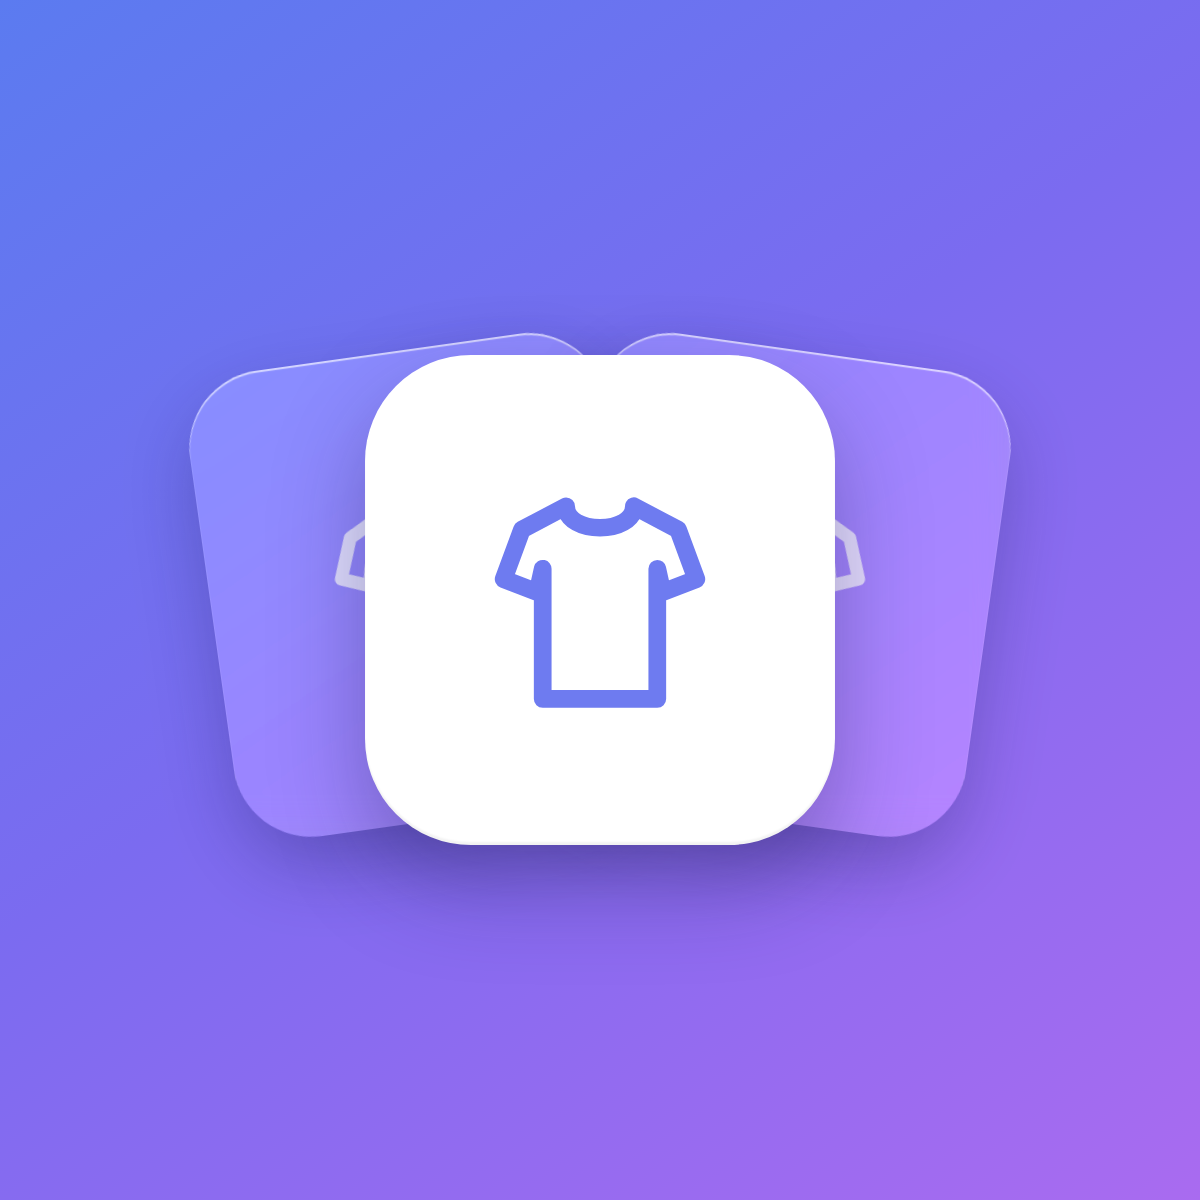
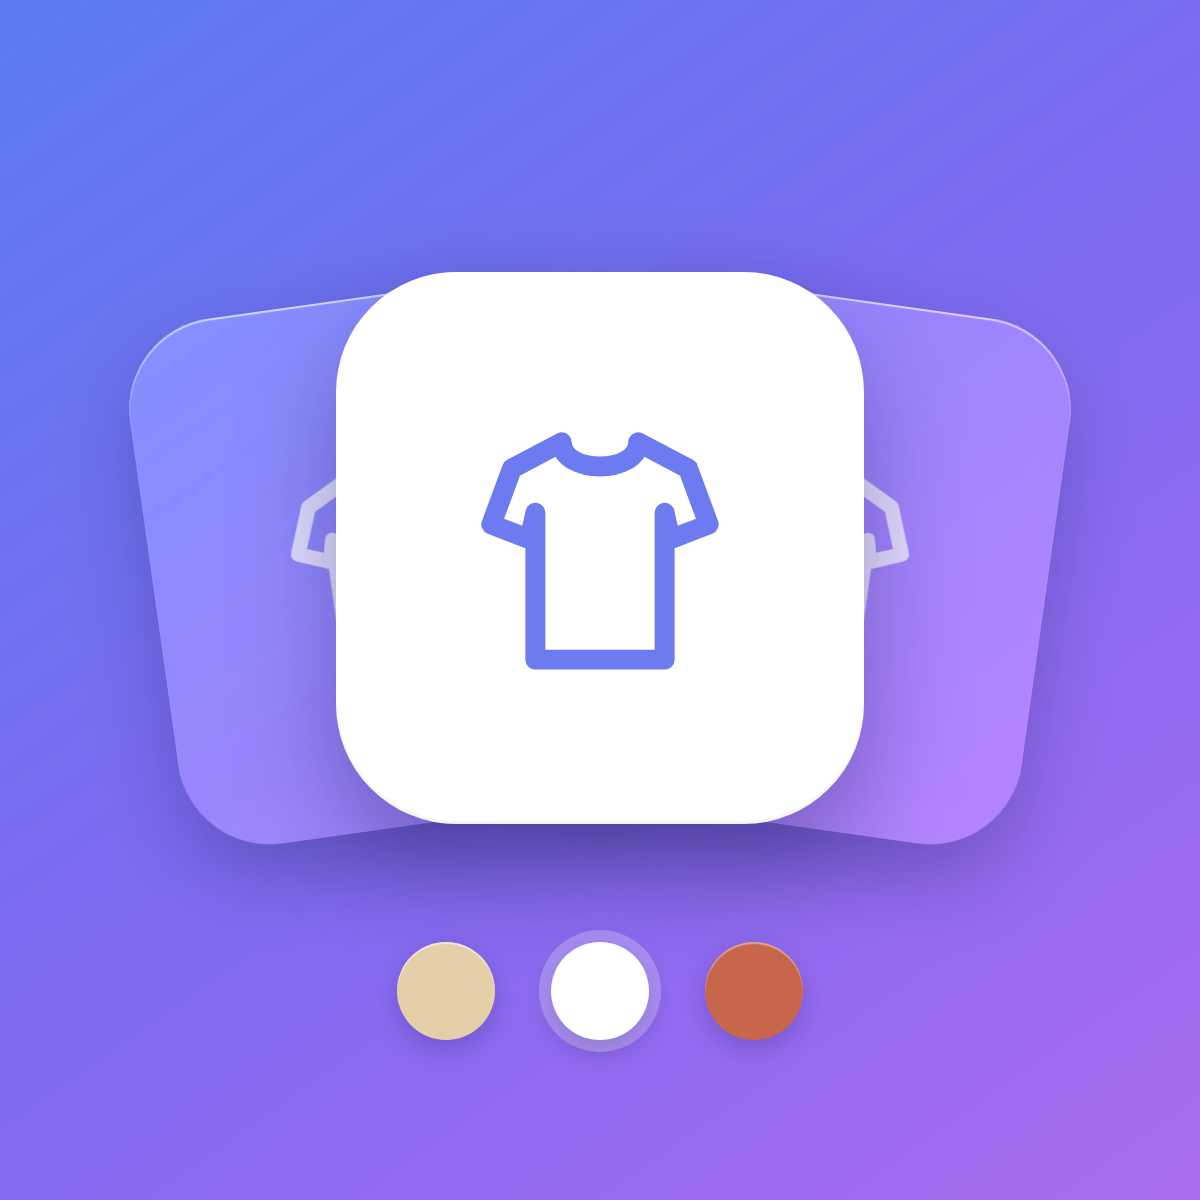
Signature retenue : agrandie, avec son nuancier
Le sujet occupe désormais la largeur utile de l'icône au lieu de flotter
au centre — une icône se regarde à 48 px, chaque pixel perdu en marge est
perdu deux fois.

Le nuancier revient, à la demande. Mon argument de redondance ne tient
plus dans cette direction : les fiches de côté sont en verre BLANC et ne
portent donc aucune couleur. Les pastilles n'y répètent rien, elles
ajoutent le coloris que la composition ne dit pas. Celle de tête est
blanche, comme la fiche choisie — l'œil relie les deux sans effort.

diff --git a/app-store/icone/directions.html b/app-store/icone/directions.html
@@ -27,20 +27,34 @@ const D = {
   signature: () => `
     <div class="icone" style="background:linear-gradient(145deg,#5B7BF0 0%,#7B6BF0 46%,#A96BF0 100%)">
       <div class="scene">
-        <div class="carte" style="left:110px;top:250px;width:420px;height:470px;border-radius:78px;
+        <div class="carte" style="left:52px;top:196px;width:472px;height:530px;border-radius:92px;
              transform:rotate(-8deg);background:rgba(255,255,255,.22);
-             backdrop-filter:blur(22px) saturate(160%);
-             box-shadow:inset 0 2px 1px rgba(255,255,255,.65), 0 30px 70px rgba(30,30,90,.30)">
-          ${TEE("rgba(255,255,255,.72)", 200)}</div>
-        <div class="carte" style="right:110px;top:250px;width:420px;height:470px;border-radius:78px;
+             backdrop-filter:blur(24px) saturate(160%);
+             box-shadow:inset 0 2px 1px rgba(255,255,255,.65), 0 34px 78px rgba(30,30,90,.30)">
+          ${TEE("rgba(255,255,255,.72)", 228)}</div>
+        <div class="carte" style="right:52px;top:196px;width:472px;height:530px;border-radius:92px;
              transform:rotate(8deg);background:rgba(255,255,255,.22);
-             backdrop-filter:blur(22px) saturate(160%);
-             box-shadow:inset 0 2px 1px rgba(255,255,255,.65), 0 30px 70px rgba(30,30,90,.30)">
-          ${TEE("rgba(255,255,255,.72)", 200)}</div>
-        <div class="carte" style="z-index:3;width:470px;height:490px;border-radius:106px;
+             backdrop-filter:blur(24px) saturate(160%);
+             box-shadow:inset 0 2px 1px rgba(255,255,255,.65), 0 34px 78px rgba(30,30,90,.30)">
+          ${TEE("rgba(255,255,255,.72)", 228)}</div>
+        <div class="carte" style="z-index:3;top:172px;width:528px;height:552px;border-radius:120px;
              background:#FFFFFF;
-             box-shadow:0 40px 90px rgba(25,25,80,.34), inset 0 -3px 2px rgba(0,0,0,.05)">
-          ${TEE("#6E7BF0", 250, 3.4)}</div>
+             box-shadow:0 46px 100px rgba(25,25,80,.36), inset 0 -3px 2px rgba(0,0,0,.05)">
+          ${TEE("#6E7BF0", 282, 3.4)}</div>
+
+        <!-- Le nuancier revient, DEMANDÉ. Les fiches de côté sont en verre
+             blanc et ne portent donc aucune couleur : les pastilles ne
+             répètent plus rien, elles ajoutent le coloris que la composition
+             ne dit pas. Celle de tête est blanche, comme la fiche choisie. -->
+        <div style="position:absolute;bottom:60px;left:0;right:0;display:flex;
+                    justify-content:center;align-items:center;gap:56px;z-index:4">
+          <span style="width:98px;height:98px;border-radius:50%;background:#E4CFA9;
+                       box-shadow:inset 0 2px 1px rgba(255,255,255,.55), 0 10px 24px rgba(30,30,90,.24)"></span>
+          <span style="width:98px;height:98px;border-radius:50%;background:#FFFFFF;
+                       box-shadow:0 0 0 12px rgba(255,255,255,.24), 0 10px 26px rgba(25,25,80,.30)"></span>
+          <span style="width:98px;height:98px;border-radius:50%;background:#C8664B;
+                       box-shadow:inset 0 2px 1px rgba(255,255,255,.42), 0 10px 24px rgba(30,30,90,.24)"></span>
+        </div>
       </div>
     </div>`,
 
